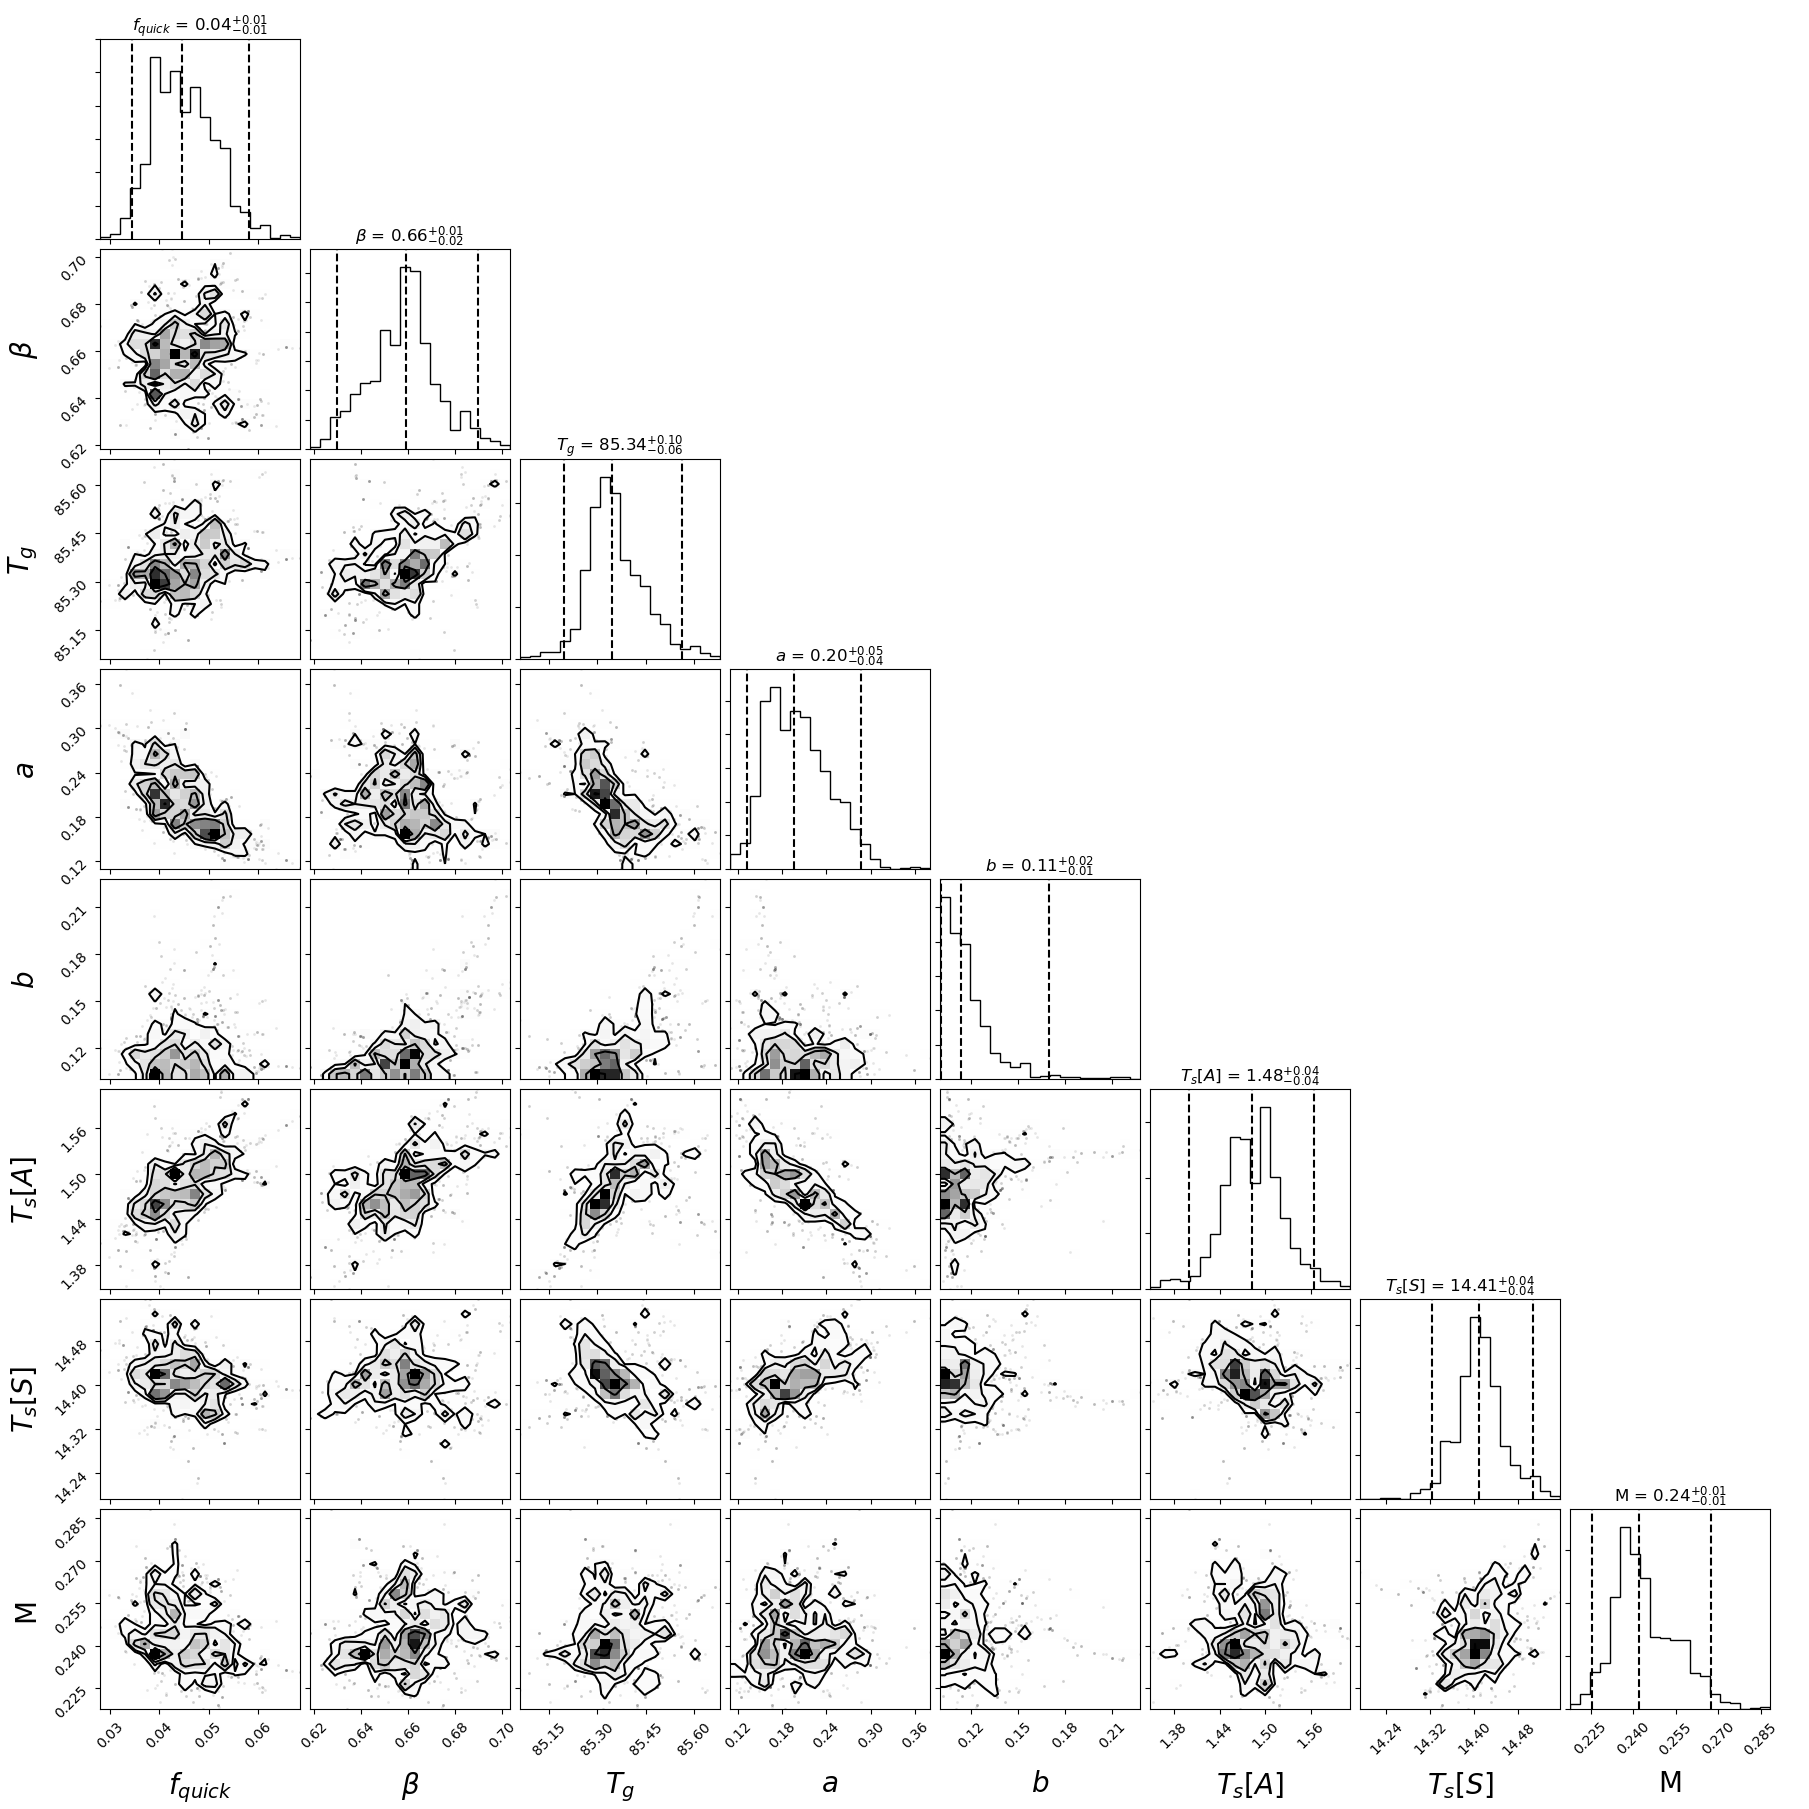
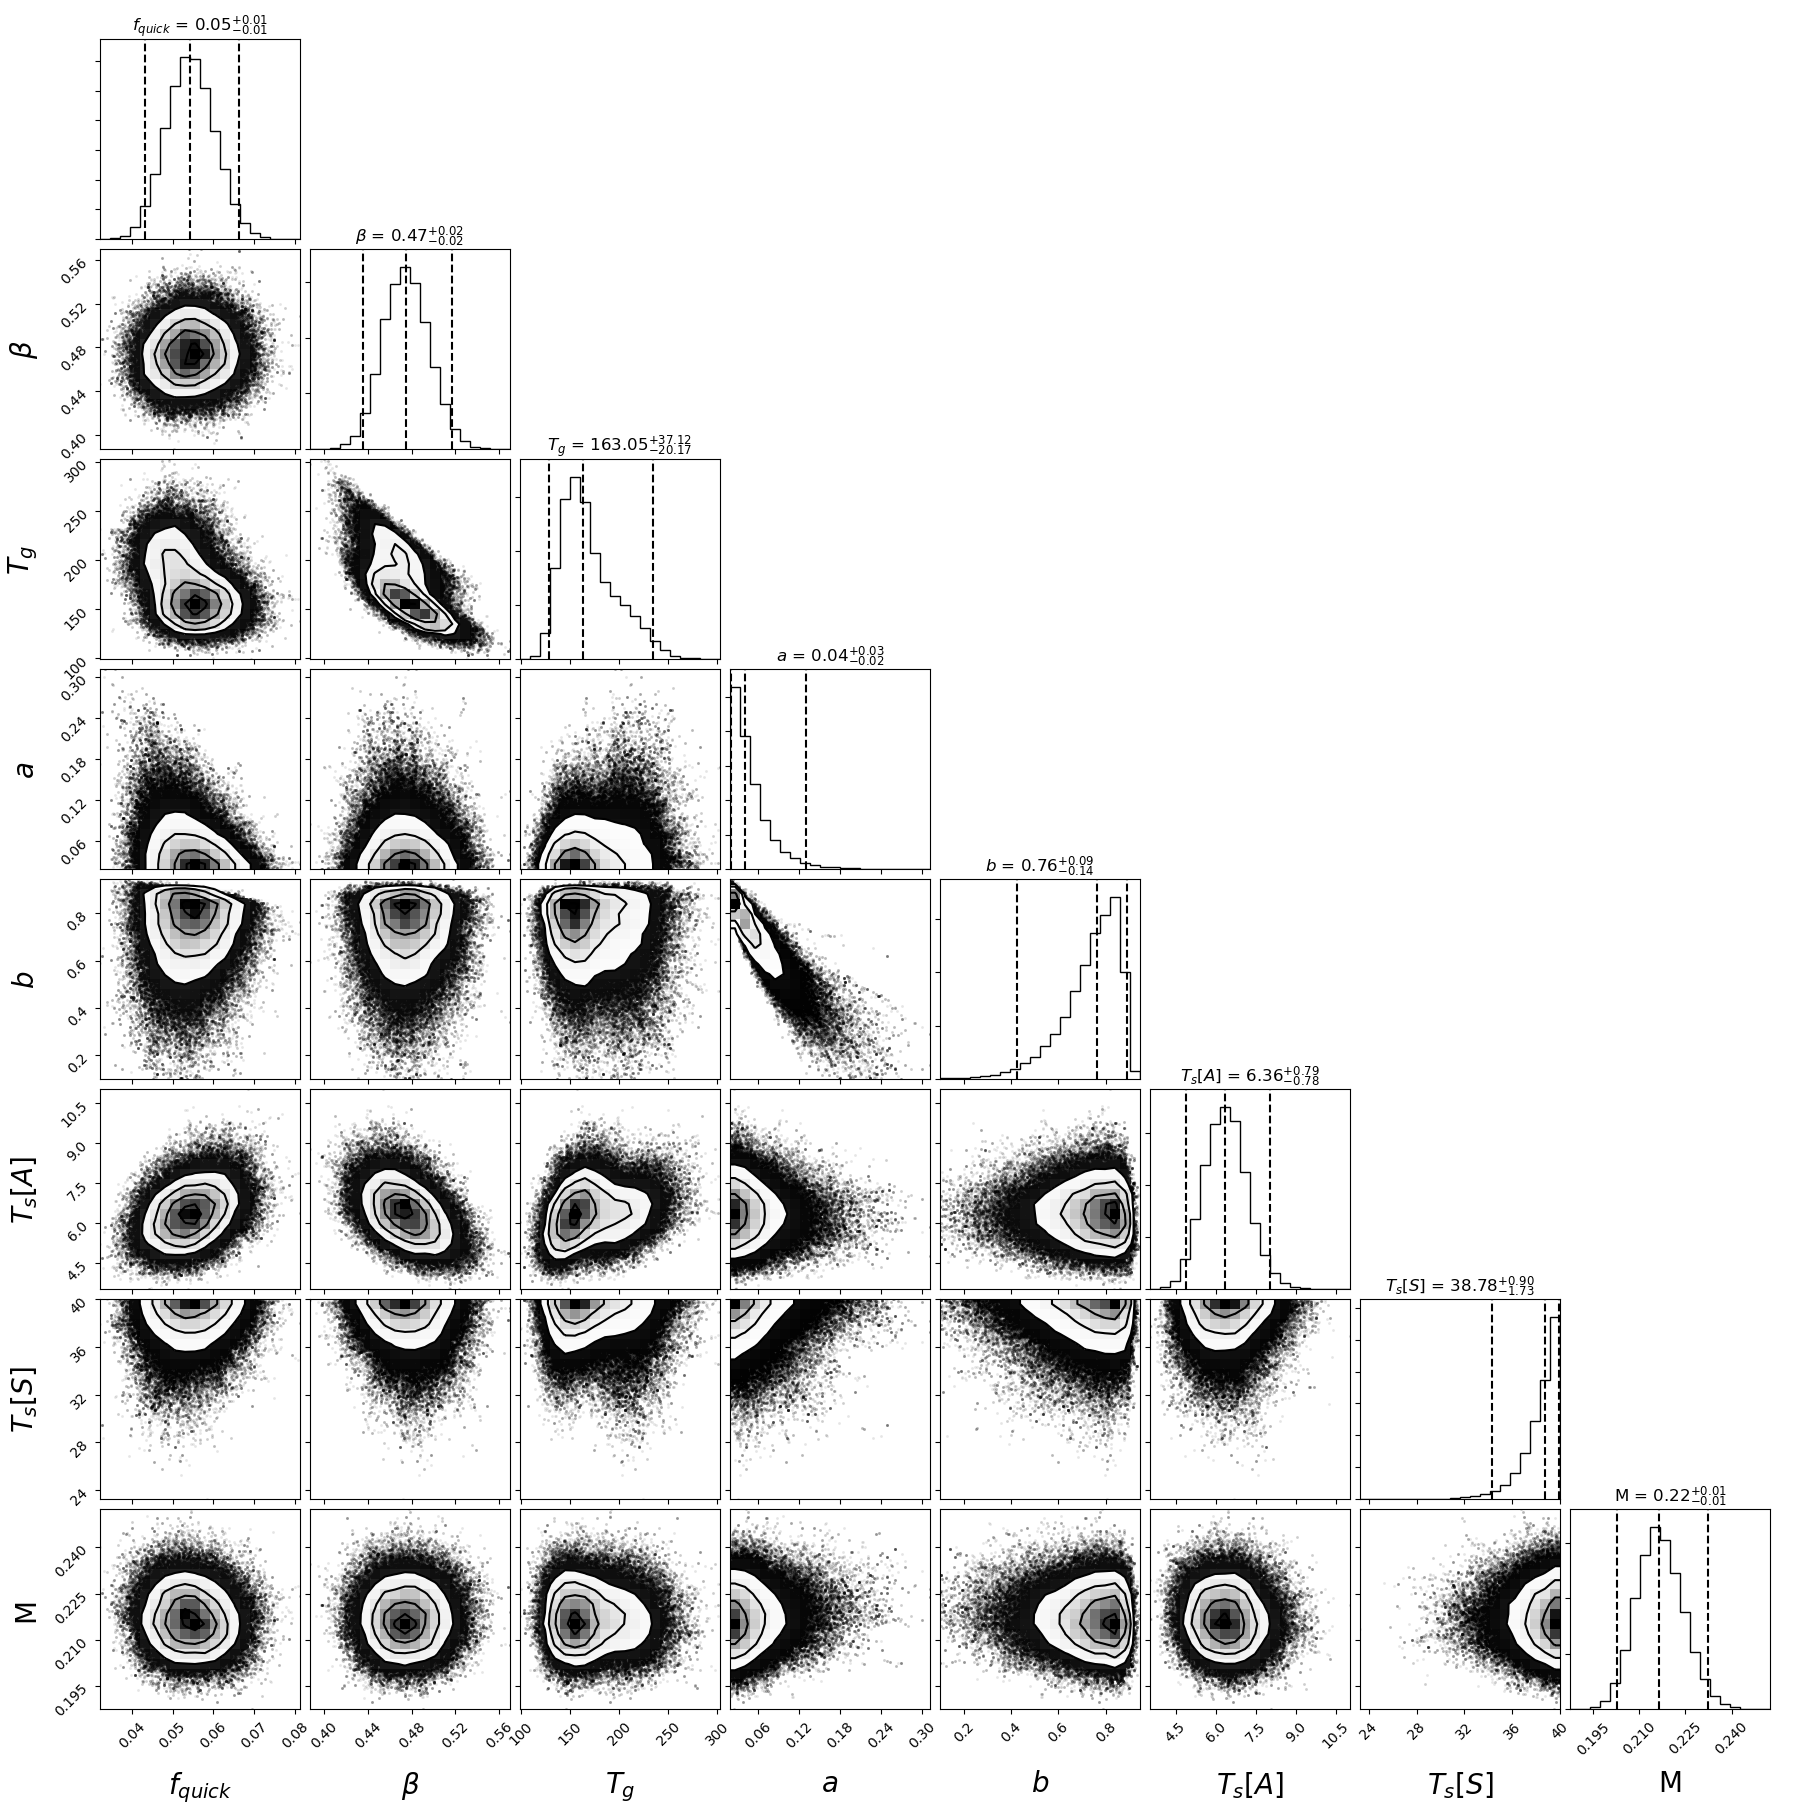
More bug fikst

diff --git a/PythonWrapper/simplyp_optimize.py b/PythonWrapper/simplyp_optimize.py
@@ -23,8 +23,8 @@ calibration = [
 initial_guess = default_initial_guess(dataset, calibration)    #NOTE: This reads the initial guess that was provided by the parameter file.
 initial_guess.append(0.5)
 
-min = [0.25 * x for x in initial_guess]
-max = [4.0 * x for x in initial_guess]
+min = [0.1 * x for x in initial_guess]
+max = [10.0 * x for x in initial_guess]
 
 constrain_min_max(dataset, calibration, min, max) #NOTE: Constrain to the min and max values recommended by the model in case we made our bounds too wide.
 
